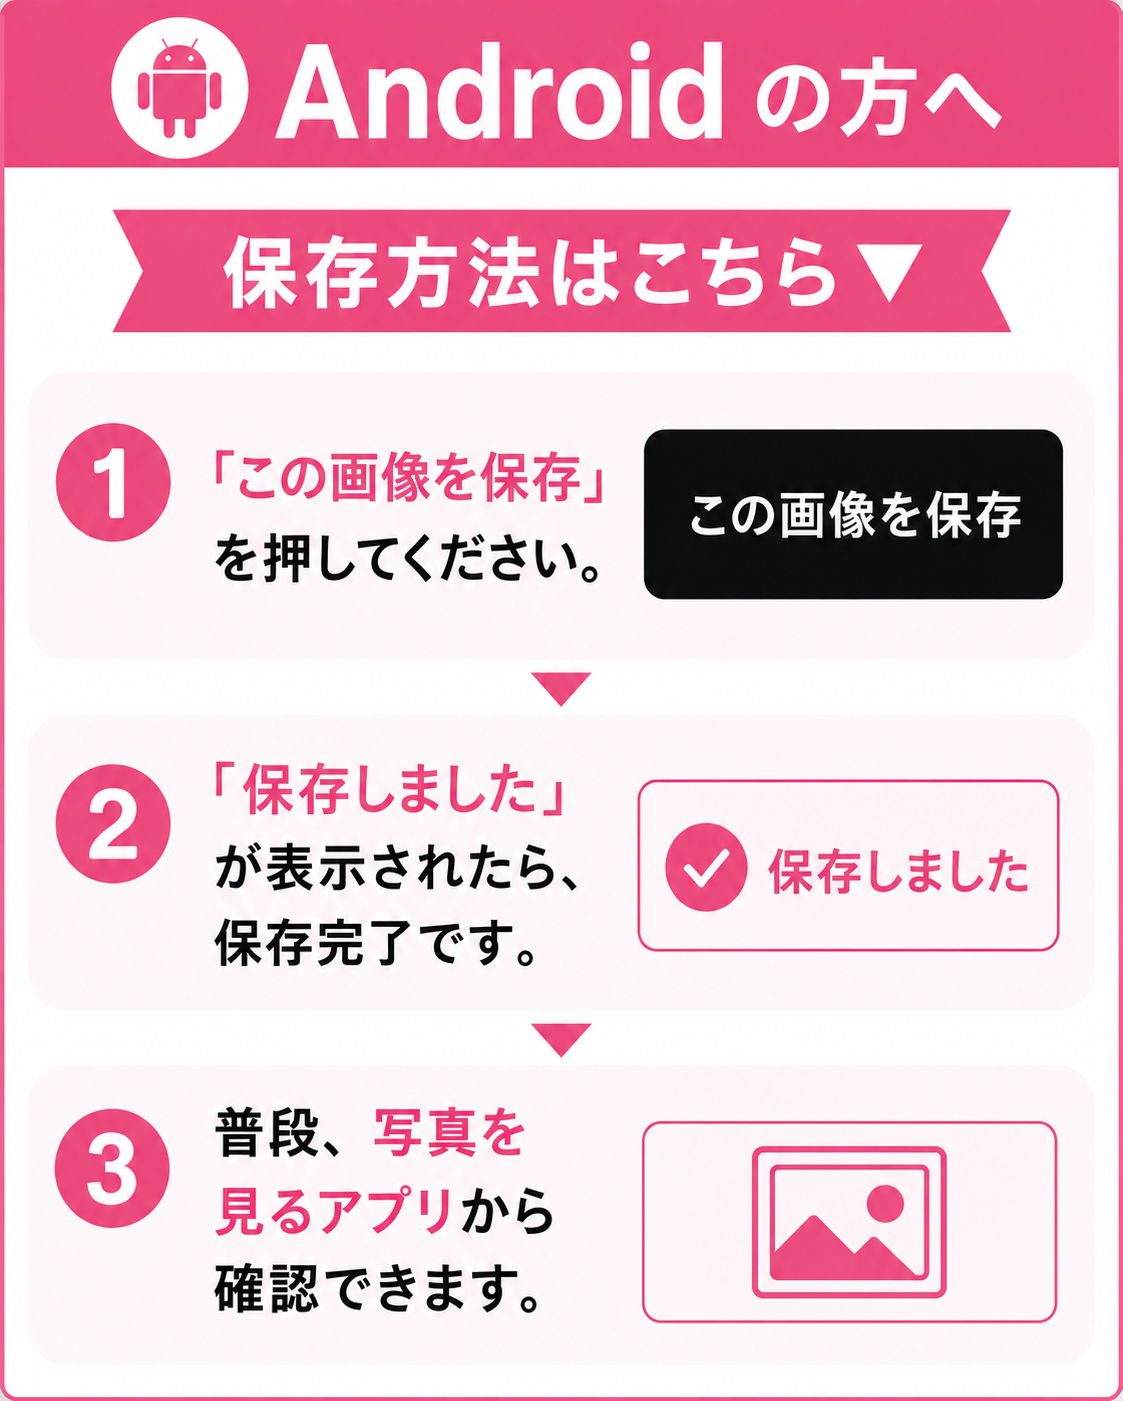
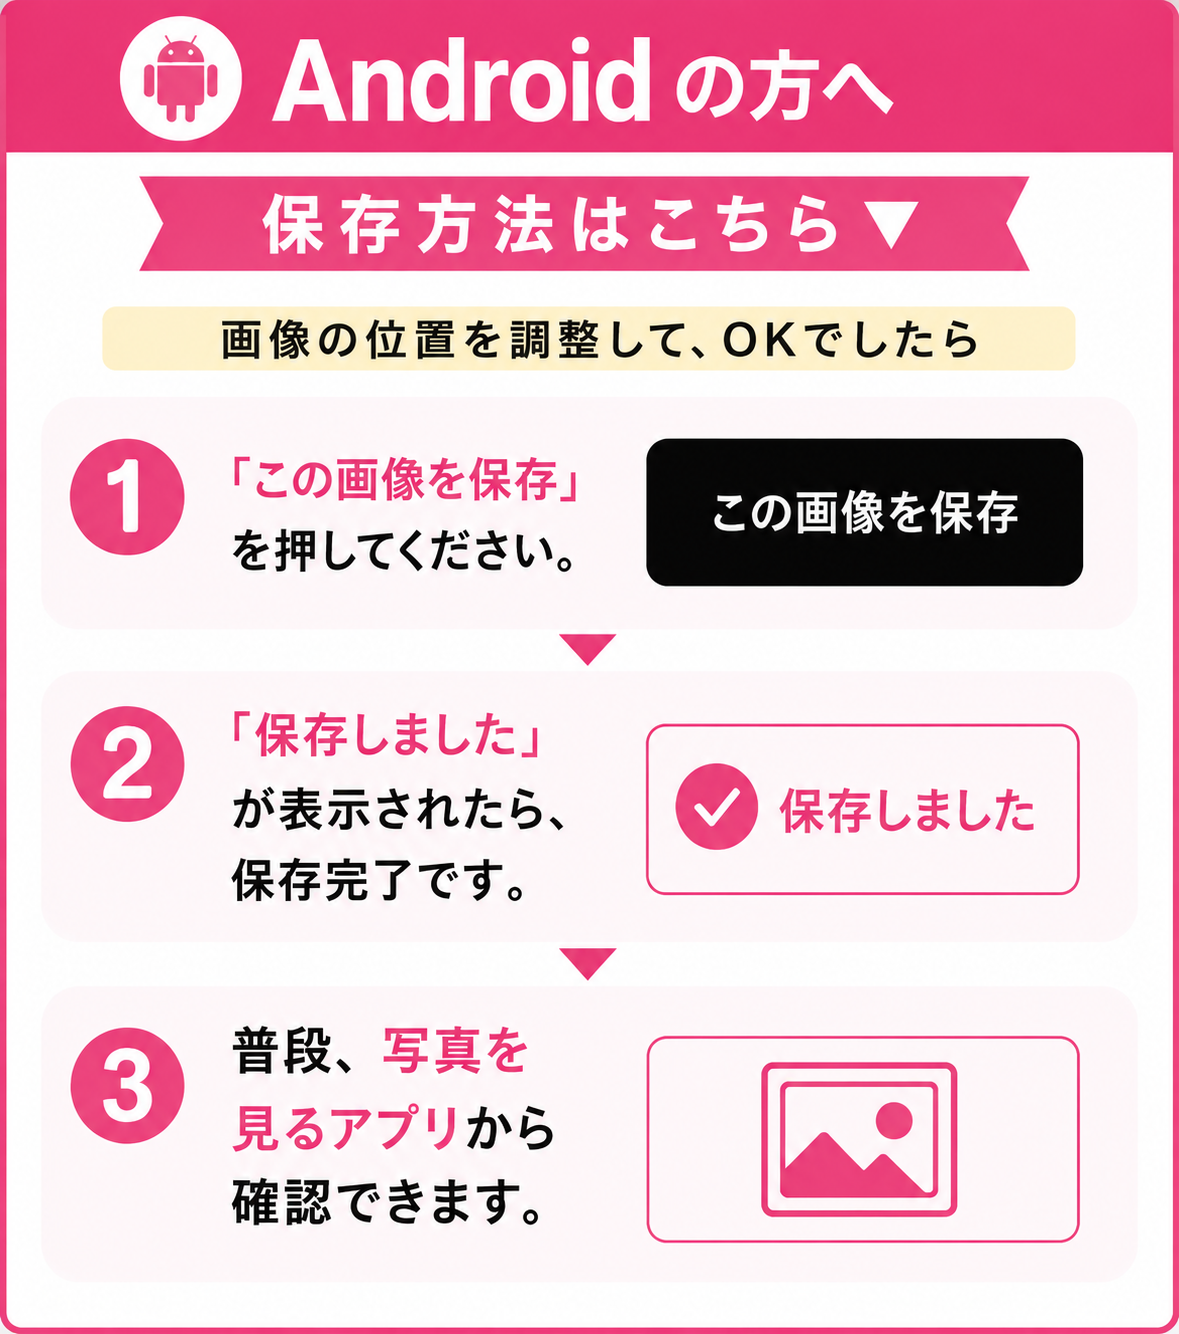
Add files via upload

diff --git a/index.html b/index.html
@@ -242,14 +242,6 @@ canvas{
     opacity:1;
     transform:translateX(-50%) translateY(0);
 }
-
-#iosGuideToggle,
-#androidGuideToggle{
-    display:block;
-    width:fit-content;
-    margin:8px auto 0;
-}
-
 </style>
 </head>
 
@@ -288,6 +280,57 @@ canvas{
 
         <label>上下位置</label>
         <input type="range" id="offsetY" min="-500" max="500" step="1" value="0">
+    </div>
+
+
+    <div id="guideArea" class="guide-area">
+        <div id="iosMessage" class="ios-message">
+            <div class="ios-title">📱 iPhone / iPadの方へ</div>
+
+            <button
+                type="button"
+                id="iosGuideToggle"
+                class="save-button"
+                style="display:block;margin:8px auto 0;">
+
+                保存方法はこちら ▼
+
+            </button>
+
+            <div
+                id="iosGuide"
+                style="display:none;margin-top:16px;text-align:center;">
+
+                <img
+                    src="iphone.png"
+                    style="max-width:100%;height:auto;border:1px solid #ddd;border-radius:10px;">
+
+            </div>
+        </div>
+
+        <div id="androidMessage" class="ios-message">
+            <div class="ios-title">🤖 Androidの方へ</div>
+
+            <button
+                type="button"
+                id="androidGuideToggle"
+                class="save-button"
+                style="display:block;margin:8px auto 0;">
+
+                保存方法はこちら ▼
+
+            </button>
+
+            <div
+                id="androidGuide"
+                style="display:none;margin-top:16px;text-align:center;">
+
+                <img
+                    src="android.png"
+                    style="max-width:100%;height:auto;border:1px solid #ddd;border-radius:10px;">
+
+            </div>
+        </div>
     </div>
 
     <div id="previewArea" class="preview-area"></div>
@@ -443,73 +486,6 @@ canvas{
             div.appendChild(title);
             div.appendChild(button);
 
-          if(index === 0){
-
-    // iPhone
-    const iosMessage = document.createElement("div");
-
-    iosMessage.id = "iosMessage";
-    iosMessage.className = "ios-message";
-
-    iosMessage.innerHTML = `
-        <div class="ios-title">📱 iPhone / iPadの方へ</div>
-
-        <button
-            type="button"
-            id="iosGuideToggle"
-            class="save-button">
-
-            保存方法はこちら ▼
-
-        </button>
-
-        <div
-            id="iosGuide"
-            style="display:none;margin-top:16px;text-align:center;">
-
-            <img
-                src="iphone.png"
-                style="max-width:100%;height:auto;border:1px solid #ddd;border-radius:10px;">
-
-        </div>
-    `;
-
-    div.appendChild(iosMessage);
-
-
-    // Android
-    const androidMessage = document.createElement("div");
-
-    androidMessage.id = "androidMessage";
-    androidMessage.className = "ios-message";
-
-    androidMessage.innerHTML = `
-        <div class="ios-title">🤖 Androidの方へ</div>
-
-        <button
-            type="button"
-            id="androidGuideToggle"
-            class="save-button">
-
-            保存方法はこちら ▼
-
-        </button>
-
-        <div
-            id="androidGuide"
-            style="display:none;margin-top:16px;text-align:center;">
-
-            <img
-                src="android.png"
-                style="max-width:100%;height:auto;border:1px solid #ddd;border-radius:10px;">
-
-        </div>
-    `;
-
-    div.appendChild(androidMessage);
-
-}
-
             div.appendChild(canvas);
 
             elements.previewArea.appendChild(div);
@@ -528,11 +504,35 @@ canvas{
     const androidGuideToggle = document.getElementById("androidGuideToggle");
     const androidGuide = document.getElementById("androidGuide");
 
+    if(iosMessage){
+        iosMessage.classList.remove("show");
+    }
+
+    if(androidMessage){
+        androidMessage.classList.remove("show");
+    }
+
+    if(iosGuide){
+        iosGuide.style.display = "none";
+    }
+
+    if(androidGuide){
+        androidGuide.style.display = "none";
+    }
+
+    if(iosGuideToggle){
+        iosGuideToggle.textContent = "保存方法はこちら ▼";
+    }
+
+    if(androidGuideToggle){
+        androidGuideToggle.textContent = "保存方法はこちら ▼";
+    }
+
     // iPhone / iPad
-    if(env.isIOS && iosMessage){
+    if(env.isIOS && iosMessage && iosGuideToggle && iosGuide){
         iosMessage.classList.add("show");
 
-        iosGuideToggle.addEventListener("click", function(){
+        iosGuideToggle.onclick = function(){
 
             const open = iosGuide.style.display === "block";
 
@@ -543,14 +543,14 @@ canvas{
                 ? "保存方法はこちら ▼"
                 : "保存方法を閉じる ▲";
 
-        });
+        };
     }
 
     // Android
-    if(env.isAndroid && androidMessage){
+    if(env.isAndroid && androidMessage && androidGuideToggle && androidGuide){
         androidMessage.classList.add("show");
 
-        androidGuideToggle.addEventListener("click", function(){
+        androidGuideToggle.onclick = function(){
 
             const open = androidGuide.style.display === "block";
 
@@ -561,7 +561,7 @@ canvas{
                 ? "保存方法はこちら ▼"
                 : "保存方法を閉じる ▲";
 
-        });
+        };
     }
 
 }